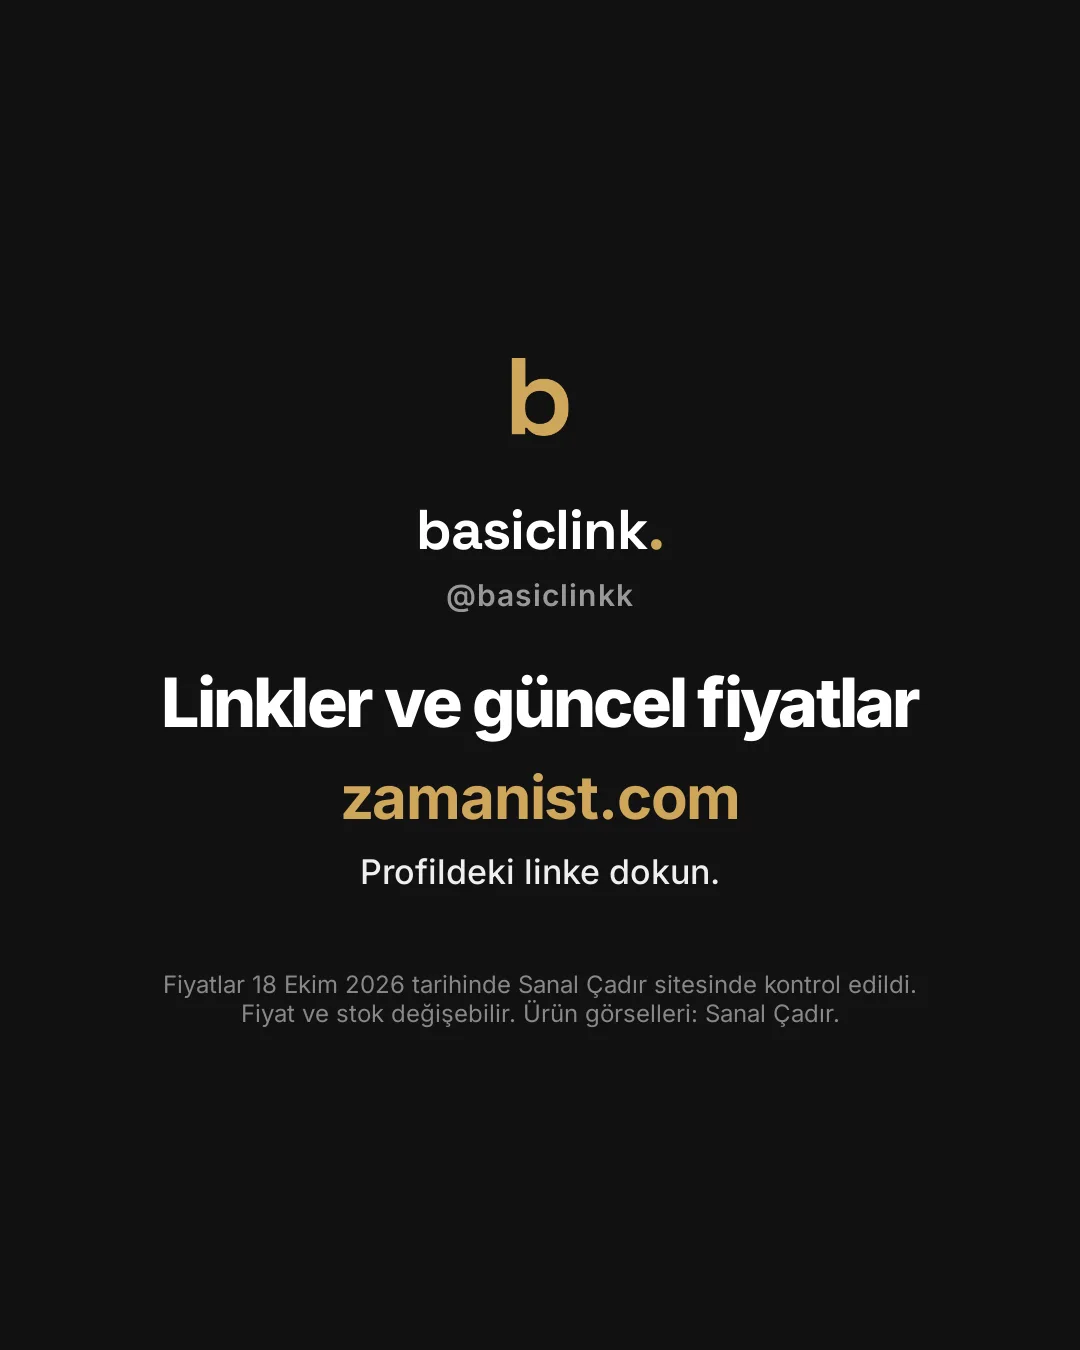
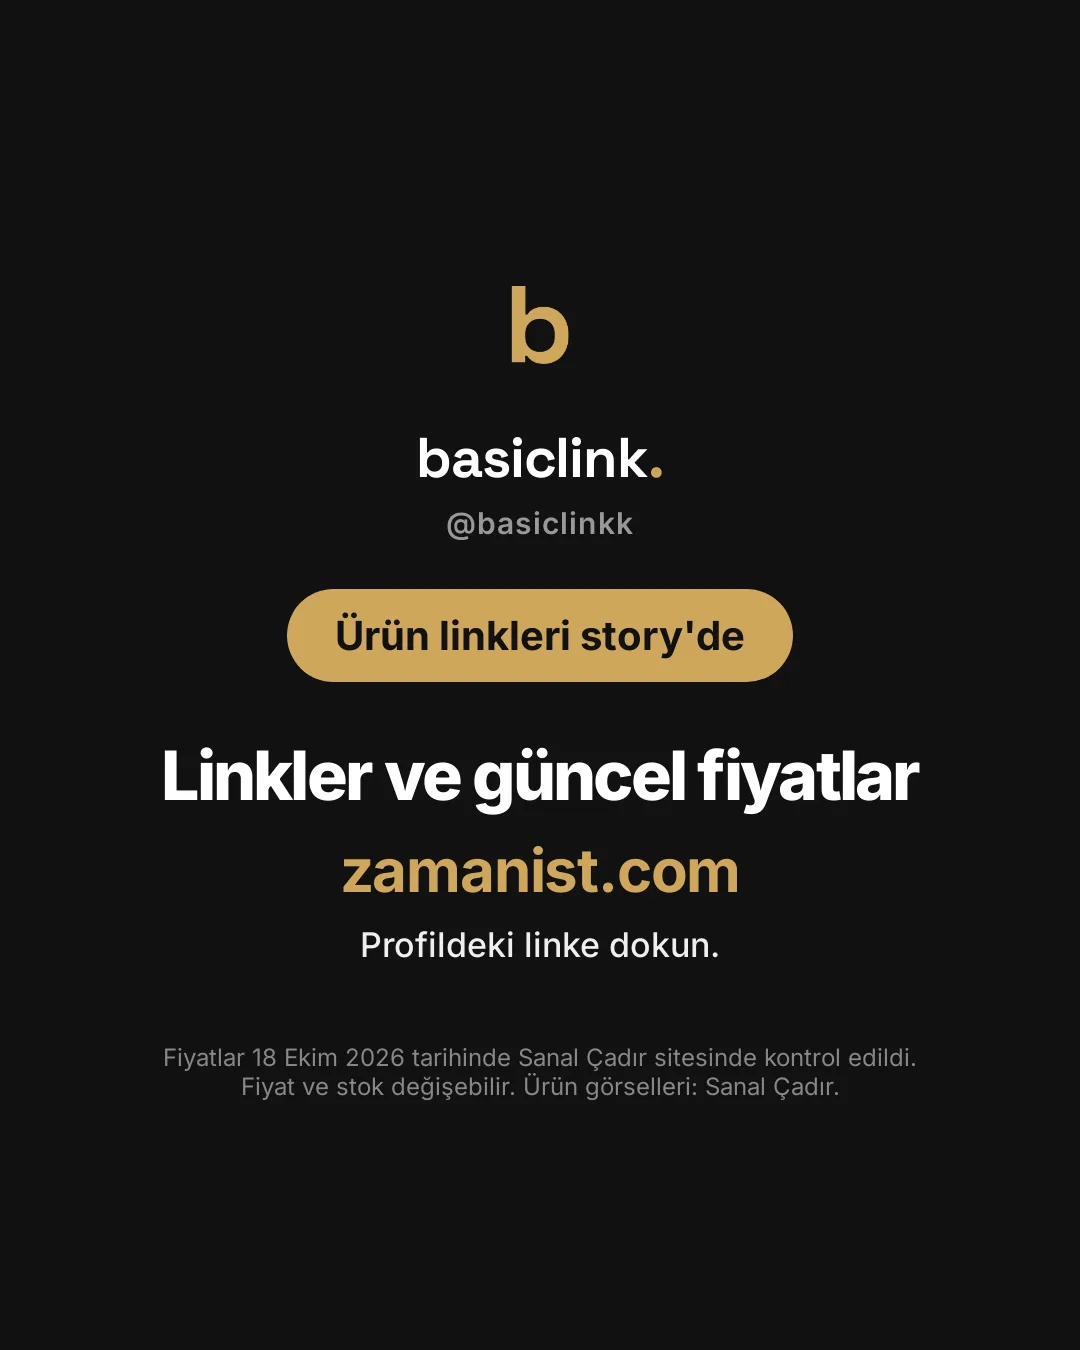
Point to the story links on the last carousel slide
Claude-Session: https://claude.ai/code/session_01HdQWbhkBJ8b86f92CSrzw3

Changed region(s): [[0.1528, 0.4356, 0.8556, 0.8089], [0.3667, 0.2178, 0.6111, 0.4044]]

diff --git a/scripts/instagram/uret.js b/scripts/instagram/uret.js
@@ -1,5 +1,6 @@
 // node scripts/instagram/uret.js post.json -> out/<n>.png, 1080x1350 slides for @basiclinkk.
 // post.json: {baslik, alt, tarih, satici?, urunler:[{dosya, marka, ad, kod, fiyat, eskiFiyat?, fiyatNot?, link}]}, "dosya" relative to post.json.
+// hikaye: false hides the "links are in the story" badge on the last slide.
 // satici: the shop the prices and photos come from, when it is not the brand itself.
 // Needs playwright (npx playwright install chromium); product photos are trimmed white-background shots.
 const { chromium } = require("playwright");
@@ -31,6 +32,7 @@ const son = `<section class="slayt son">
   <img class="logo-img buyuk" src="file://${path.join(__dirname, "logo-b-yuvarlak.png")}">
   <p class="yazi">basiclink<i>.</i></p>
   <p class="hesap">@basiclinkk</p>
+  ${veri.hikaye === false ? "" : `<p class="hikaye-not">Ürün linkleri story'de</p>`}
   <h2>Linkler ve güncel fiyatlar</h2>
   <p class="site">zamanist.com</p>
   <p>Profildeki linke dokun.</p>
@@ -77,6 +79,7 @@ body{background:#888;font-family:Inter,sans-serif}
 .son h2{font:800 68px Inter;letter-spacing:-.04em;color:#fff}
 .son .site{font:700 60px Inter;color:#CFA65A;letter-spacing:-.02em}
 .son p{font:500 34px Inter}
+.son .hikaye-not{font:700 40px Inter;color:#111;background:#CFA65A;border-radius:999px;padding:22px 48px;margin-bottom:34px}
 .son .not{font:400 24px Inter;color:#888;margin-top:60px;max-width:760px}
 </style></head><body>${kapak}${gruplar.map((g, i) => urunSlayt(g, `${i + 1}/${gruplar.length}`)).join("")}${son}</body></html>`;
 fs.writeFileSync(path.join(kok, "post.html"), html);
